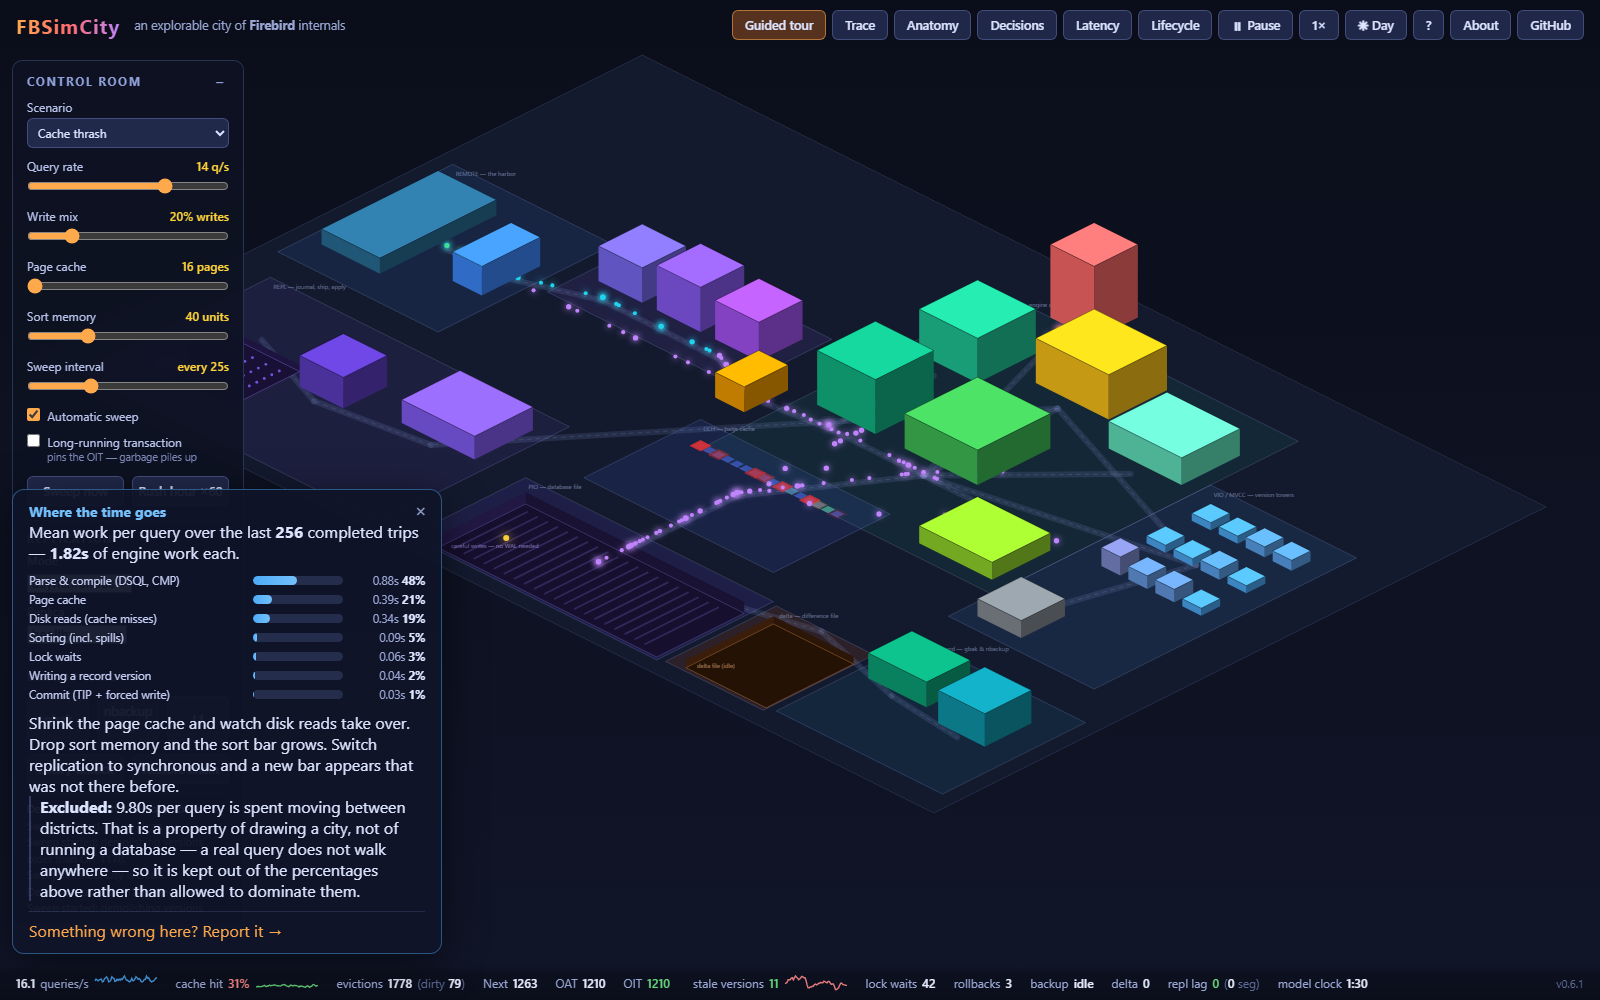
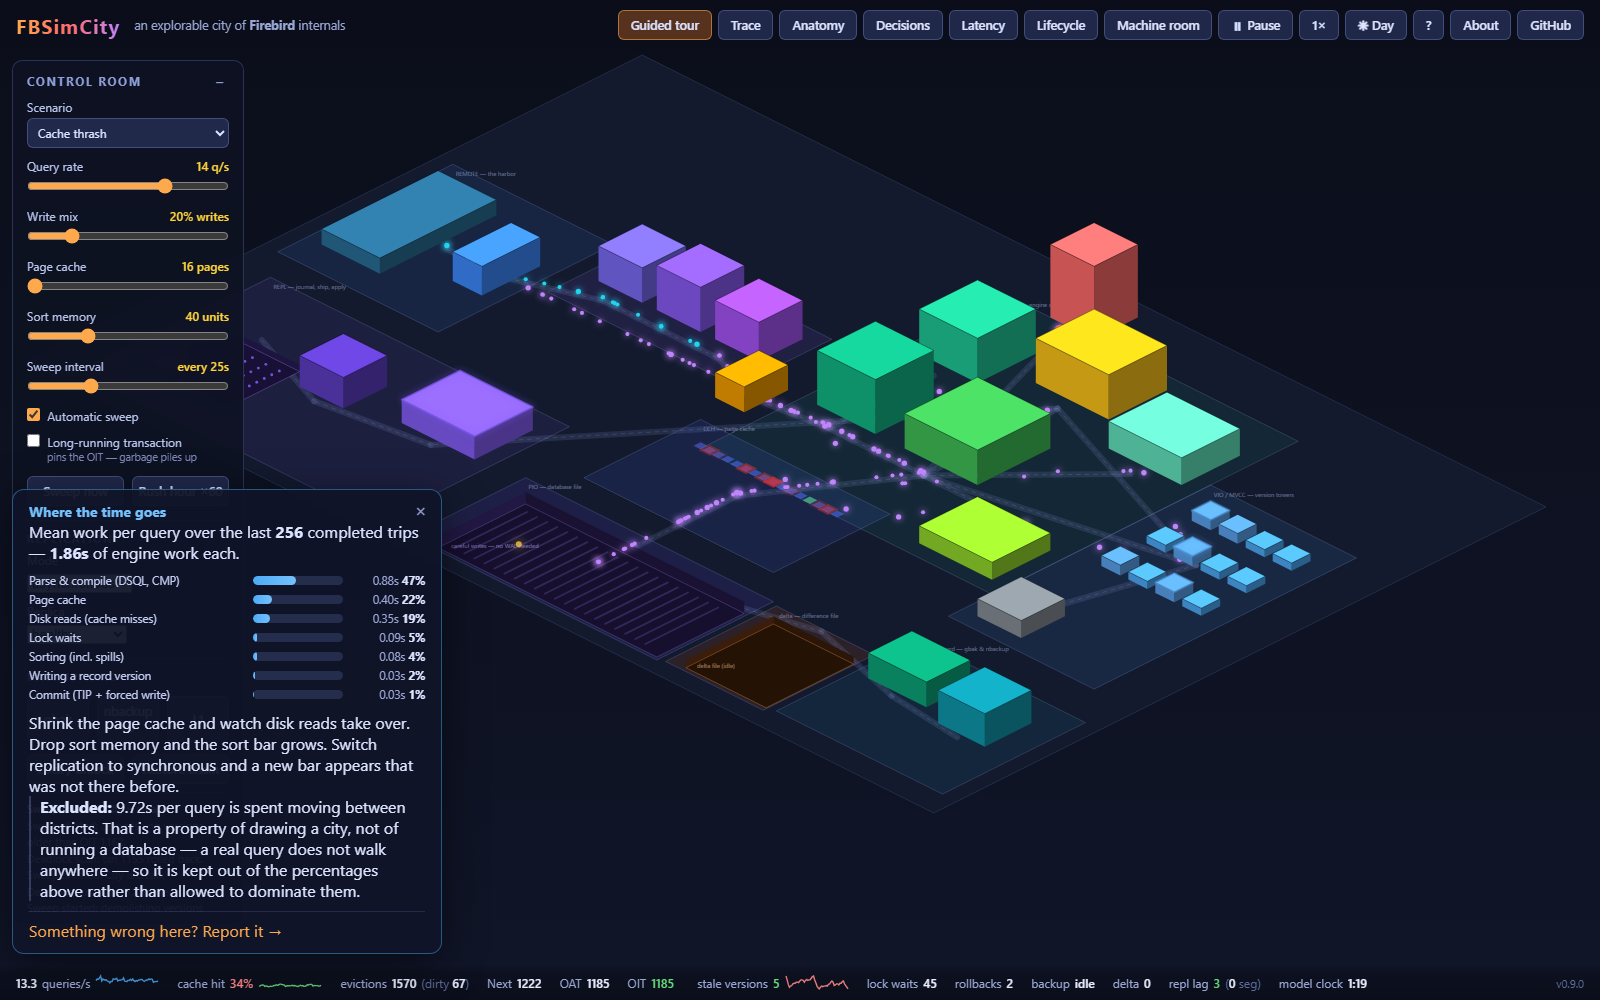
Machine room: honest first-visit state, and a screenshot tool that does not lie
Three things found by looking at what the tools and the page actually
produced rather than at what they reported.

tools/screenshot.ps1 announced screenshots it had not taken

  It pointed Edge straight at docs/screenshot.png and then reported
  success if that file existed. Two defects hid behind that:

  - the call operator did not reliably wait for Edge, so the check ran
    while the browser was still starting; and
  - on a failed run the previous image was still sitting there, so the
    check passed anyway.

  Together they illustrated the v0.9.0 README with a v0.6.1 city, topbar
  and all. It now shoots to a temp file, waits with Start-Process -Wait,
  rejects an implausibly small image, and only then moves it into place.
  The file is ASCII only: PowerShell 5.1 reads a .ps1 as ANSI without a
  BOM, so an em dash in a comment is a parse error.

The machine room called a normal first visit a failure

  On first load the service worker has not taken control yet, so the page
  is not cross-origin isolated and reloads itself once. The page reported
  "Engine unavailable" for that entirely ordinary moment. It now
  distinguishes the two: no controller yet means it says it is preparing
  and explains the reload; a controller with no isolation is the real
  failure and still says so.

An MGA verdict quoted a database-wide counter as if it were yours

  "49 updates, and 2 back-version reads" after two updates - the counters
[…]

diff --git a/machine/machine.js b/machine/machine.js
@@ -123,19 +123,26 @@ const SEQUENCES = [
       const r = row(res[5]);
       if (!r) return null;
       const back = Number(r.BACKVERSION_READS);
+      // These counters are database-wide and cumulative — they include the
+      // catalogue's own bookkeeping from the CREATE, so the totals are much
+      // larger than the two updates just made. Say so, rather than letting
+      // the reader assume two updates produced all of them.
       return {
         ok: back > 0,
         text: back > 0
-          ? `${r.UPDATES} updates, and ${r.BACKVERSION_READS} back-version ` +
-            `reads: the engine had to walk past older versions of that row ` +
-            `to reach the current one, because the updates did not overwrite ` +
-            `anything. That walk is what the city's towers draw as floors, ` +
-            `and ${r.PURGES} purges is garbage collection removing the ones ` +
-            `nobody can reach any more.`
-          : `${r.UPDATES} updates and no back-version reads yet. The ` +
+          ? `Two updates to one row. The engine's counters — database-wide ` +
+            `and cumulative, so they include the catalogue's own writes — now ` +
+            `stand at ${r.UPDATES} updates, ${r.BACKVERSION_READS} ` +
+            `back-version reads and ${r.PURGES} purges. The figure that ` +
+            `settles it is the back-version reads: above zero means the ` +
+            `engine had to walk past an older version of a row to reach the ` +
+            `current one, because an update did not overwrite anything. That ` +
+            `walk is what the city's towers draw as floors, and a purge is ` +
+            `garbage collection removing a version nobody can reach.`
+          : `${r.UPDATES} updates recorded and no back-version reads. The ` +
             `versions are written either way; whether the engine had to read ` +
-            `past one depends on what garbage collection did first. Run the ` +
-            `sequence again — the counter is database-wide and cumulative.`,
+            `past one depends on what garbage collection got to first. Run ` +
+            `the sequence again.`,
       };
     },
   },
@@ -471,10 +478,26 @@ async function boot() {
   reportIsolation();
 
   if (!self.crossOriginIsolated) {
-    fail('Waiting for cross-origin isolation. The engine needs ' +
-         'SharedArrayBuffer, which the browser only grants to an isolated ' +
-         'page. If the page does not reload itself shortly, see the note at ' +
-         'the foot of this page.');
+    // First visit: the service worker has just installed and has not taken
+    // control yet, so it will reload the page in a moment and the engine will
+    // start on the way back. That is the normal path, not a failure, and
+    // calling it "unavailable" would be alarming and wrong. Once a controller
+    // exists and the page is still not isolated, something really is wrong.
+    const firstVisit = 'serviceWorker' in navigator &&
+      !navigator.serviceWorker.controller;
+    if (firstVisit) {
+      setStatus('busy', 'Preparing the engine…');
+      els.result.replaceChildren();
+      els.result.append(el('p', 'note',
+        'First visit: the page is installing the service worker that supplies ' +
+        'the cross-origin isolation headers GitHub Pages cannot send, and will ' +
+        'reload itself once. The engine starts on the way back.'));
+      return;
+    }
+    fail('This page is not cross-origin isolated, so SharedArrayBuffer is ' +
+         'not available and the engine cannot start. That usually means the ' +
+         'page is being served over plain HTTP or from a file:// URL, where ' +
+         'service workers do not run.');
     return;
   }
 
